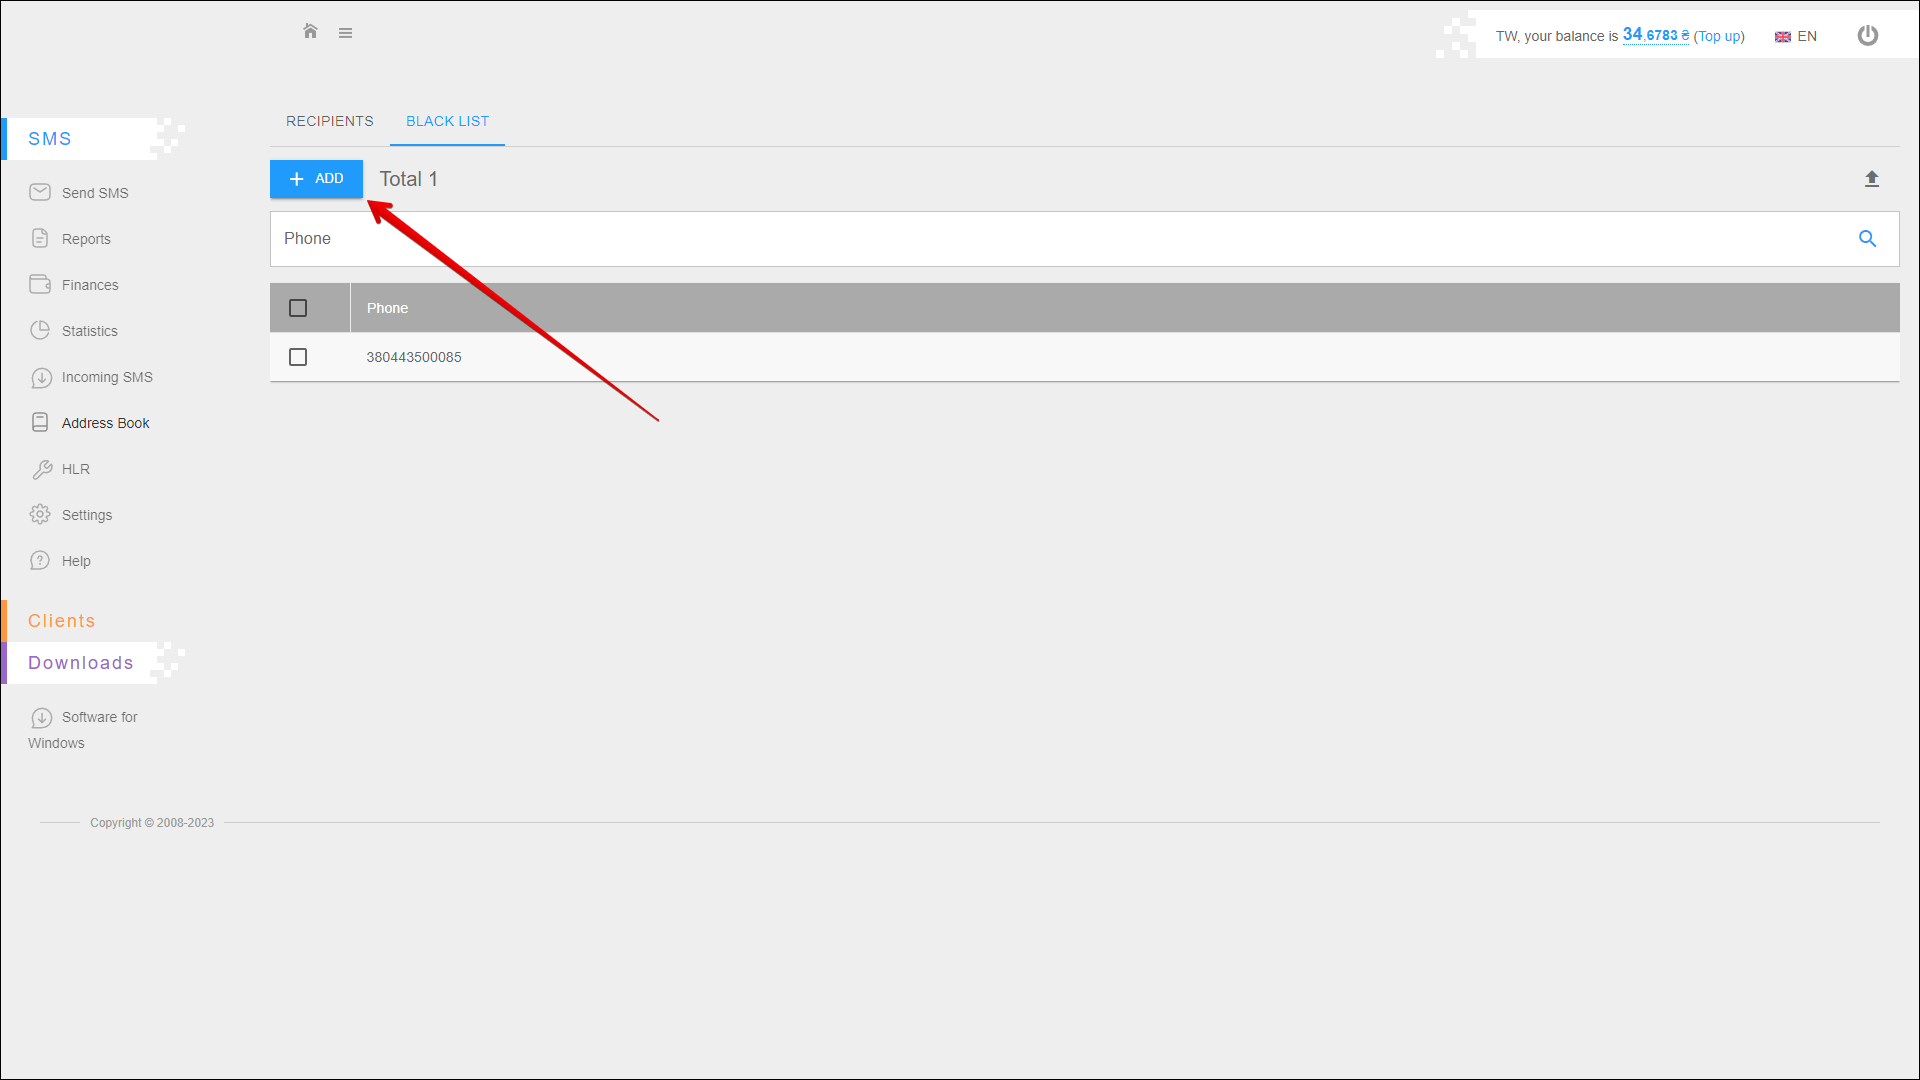
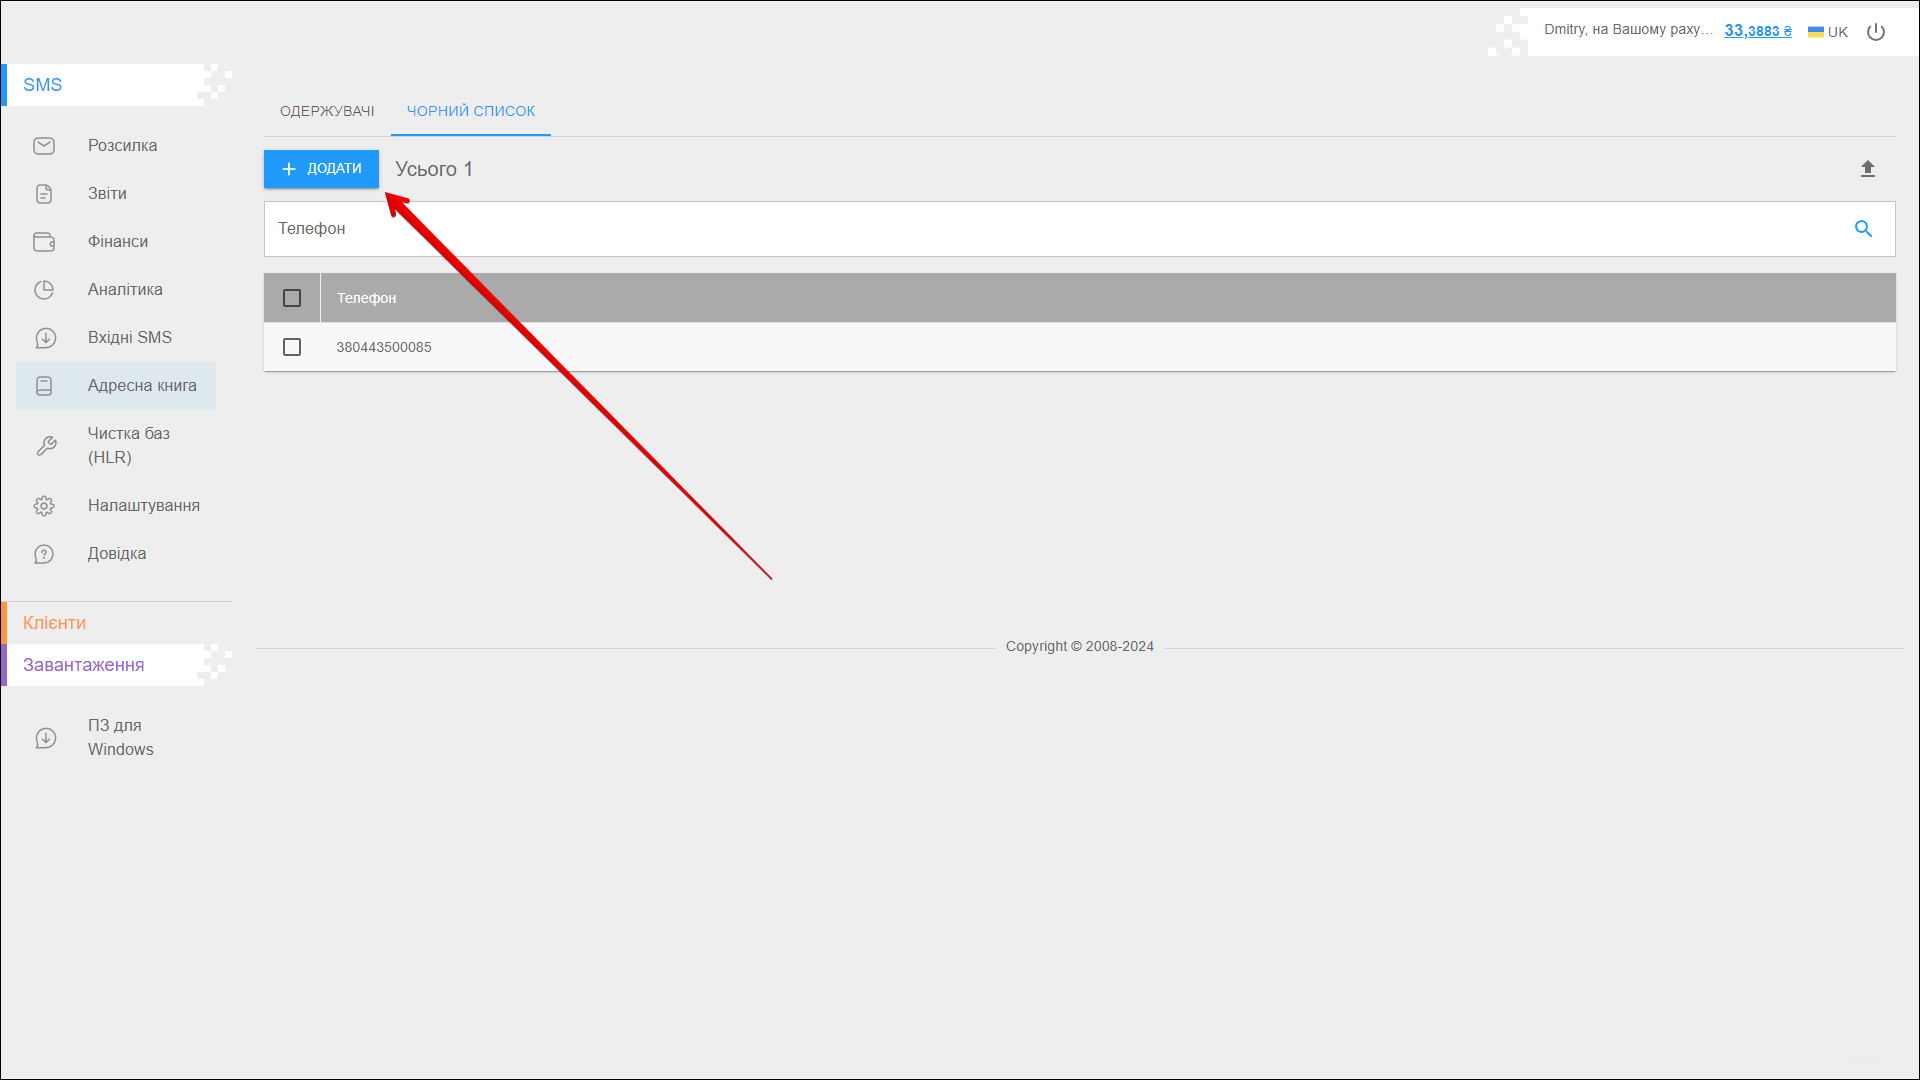
+ SMS-Адресна книга-Чорний список

diff --git a/i18n/uk/docusaurus-plugin-content-docs/current/instruction/sms/address_book/black_list.md b/i18n/uk/docusaurus-plugin-content-docs/current/instruction/sms/address_book/black_list.md
@@ -3,3 +3,33 @@ id: black_list
 title: Чорний список
 slug: /black_list
 ---
+
+На цій вкладці ви можете додати номери до чорного списку, на які ви не хочете надсилати повідомлення.
+
+Щоб відкрити дану вкладку, виберіть **SMS** → **Адресна книга** у боковому меню та перейдіть на вкладку **ЧОРНИЙ СПИСОК**.
+
+![image1](/img/uk/sms_address_book_black_list/image1.png)
+
+## Додавання номера
+
+Щоб додати номер до чорного списку, натисніть кнопку **+ ДОДАТИ**.
+
+![image2](/img/uk/sms_address_book_black_list/image2.png)
+
+Далі введіть один або декілька номерів у полі **Список телефонів** і натисніть **ВИКОНАТИ**.
+
+> :warning: Кожен номер вводиться з нового рядка
+
+![image3](/img/uk/sms_address_book_black_list/image3.png)
+
+## Пошук
+
+Щоб знайти номер у чорному списку, введіть його в поле пошуку і натисніть іконку кнопки **Пошук** або клавішу **[ Enter ]**.
+
+![image4](/img/uk/sms_address_book_black_list/image4.png)
+
+## Видалення номерів
+
+Щоб видалити номер з чорного списку, встановіть прапорець навпроти одного або декількох номерів і натисніть іконку кнопки **Видалити**.
+
+![image5](/img/uk/sms_address_book_black_list/image5.png)
